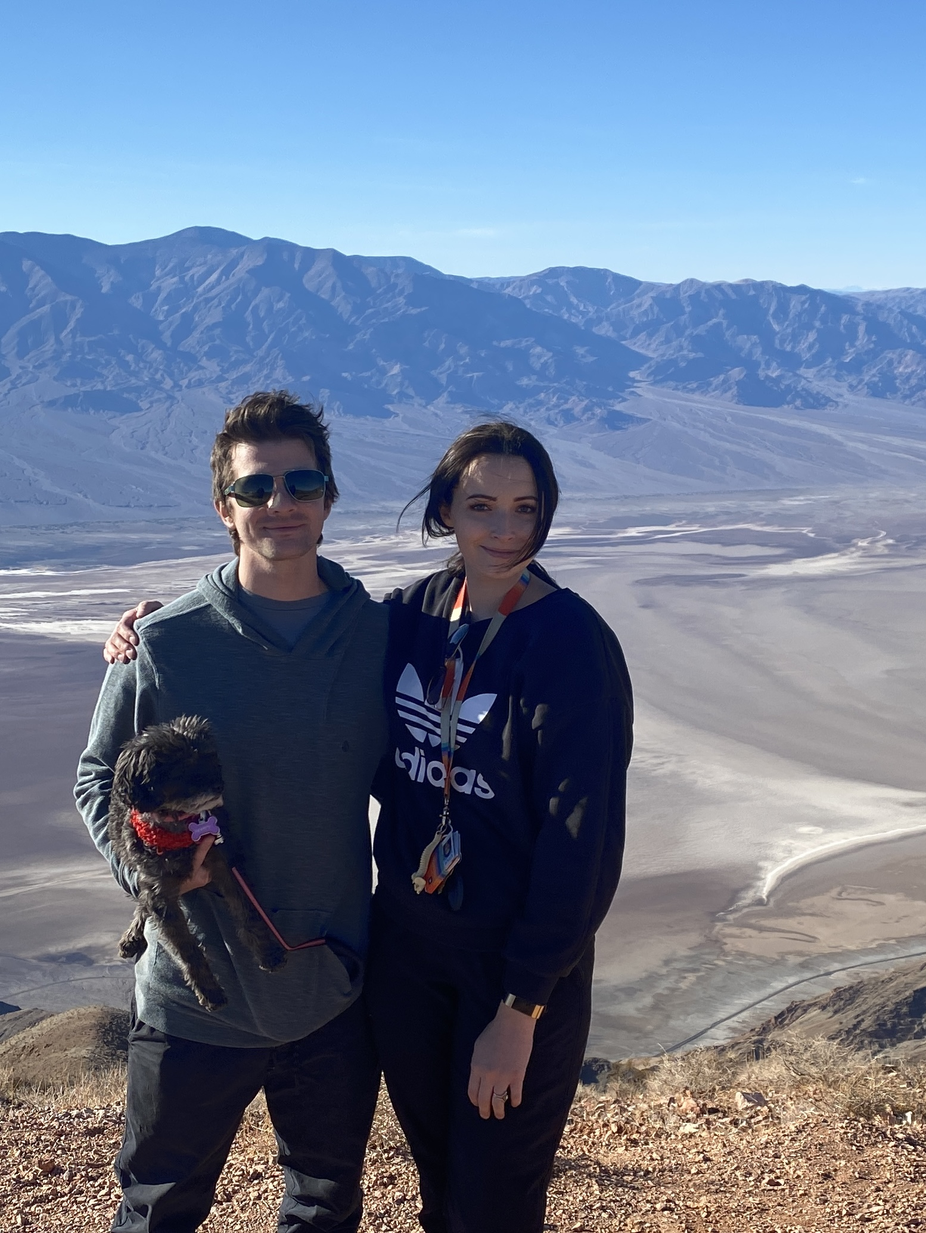
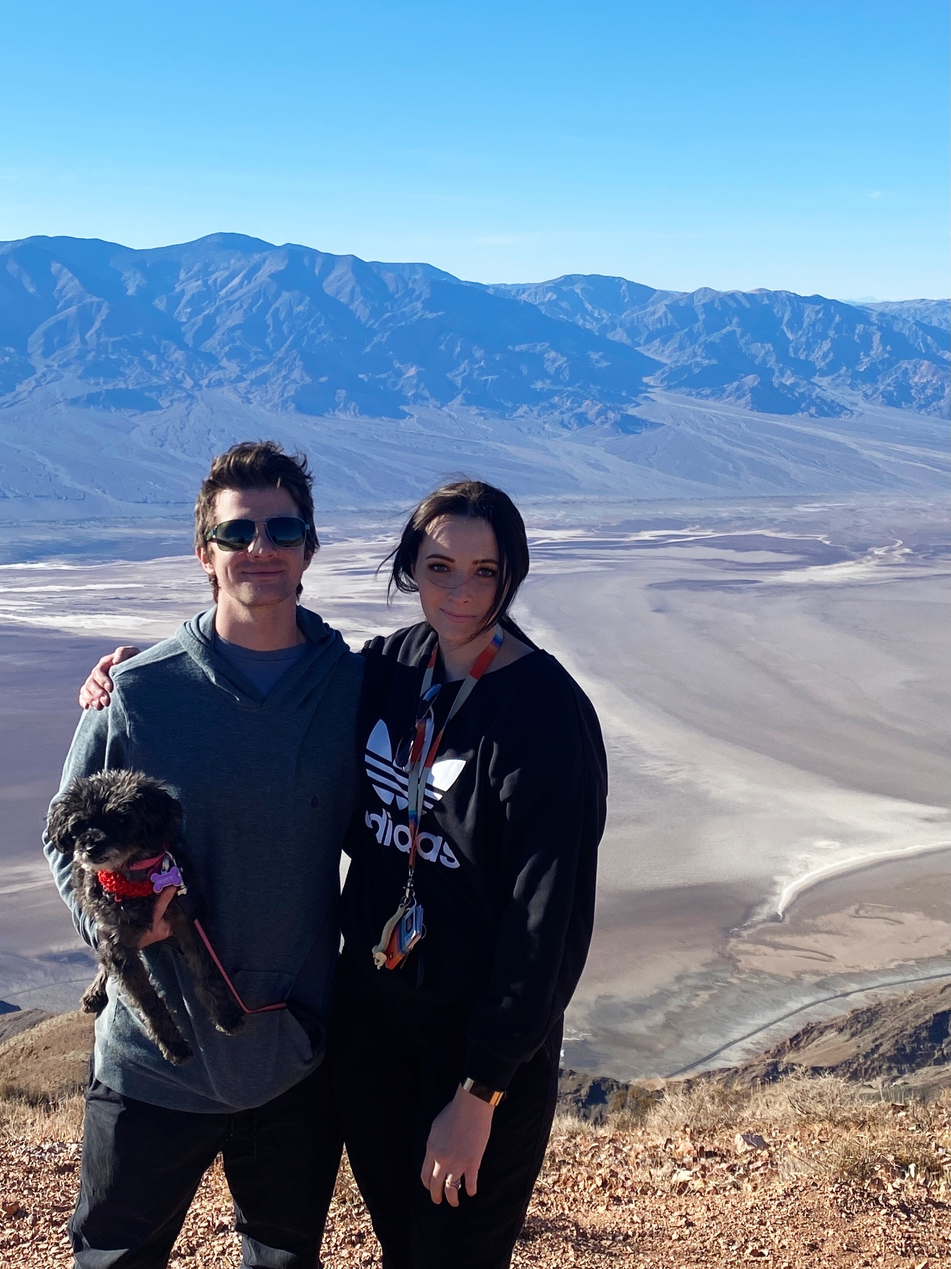
working on homepage still

diff --git a/src/Home.js b/src/Home.js
@@ -1,8 +1,8 @@
 import React from 'react'
 import me from './media/me.JPG'
 import fam1 from './media/fam1.JPG'
-import fam2 from './media/fam2.png'
 import lucy from './media/lucy.png'
+import fam2 from './media/fam2.jpg'
 import skate1 from './media/skate.gif'
 import skate2 from './media/skate2.gif'
 import skate3 from './media/skate3.gif'
